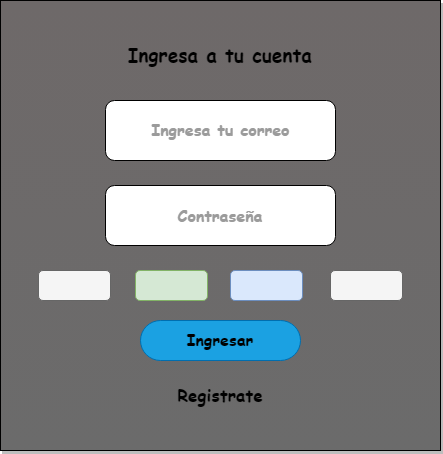
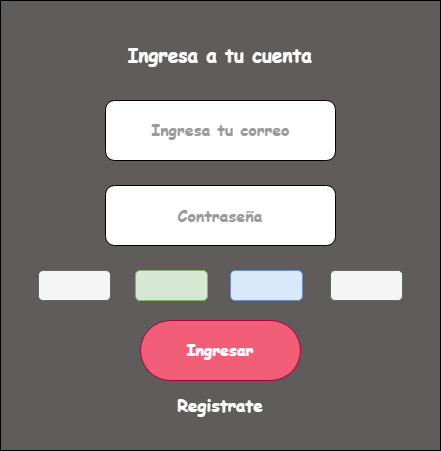
v2

diff --git a/wireframe/registro_DH_Venture_Capitals.html b/wireframe/registro_DH_Venture_Capitals.html
@@ -6,7 +6,7 @@
 <meta charset="utf-8"/>
 </head>
 <body>
-<div class="mxgraph" style="max-width:100%;border:1px solid transparent;" data-mxgraph="{&quot;highlight&quot;:&quot;#0000ff&quot;,&quot;nav&quot;:true,&quot;resize&quot;:true,&quot;xml&quot;:&quot;&lt;mxfile host=\&quot;app.diagrams.net\&quot; modified=\&quot;2024-01-03T18:39:56.479Z\&quot; agent=\&quot;Mozilla/5.0 (Windows NT 10.0; Win64; x64) AppleWebKit/537.36 (KHTML, like Gecko) Chrome/120.0.0.0 Safari/537.36\&quot; etag=\&quot;cjPAPymmBEQQY-jSJoUh\&quot; version=\&quot;22.1.16\&quot; type=\&quot;device\&quot;&gt;&lt;diagram name=\&quot;Página-1\&quot; id=\&quot;12uegHvMAC7eU31NP4QJ\&quot;&gt;&lt;mxGraphModel dx=\&quot;1334\&quot; dy=\&quot;447\&quot; grid=\&quot;1\&quot; gridSize=\&quot;10\&quot; guides=\&quot;1\&quot; tooltips=\&quot;1\&quot; connect=\&quot;1\&quot; arrows=\&quot;1\&quot; fold=\&quot;1\&quot; page=\&quot;1\&quot; pageScale=\&quot;1\&quot; pageWidth=\&quot;827\&quot; pageHeight=\&quot;1169\&quot; background=\&quot;#ffffff\&quot; math=\&quot;0\&quot; shadow=\&quot;0\&quot;&gt;&lt;root&gt;&lt;mxCell id=\&quot;0\&quot;/&gt;&lt;mxCell id=\&quot;1\&quot; parent=\&quot;0\&quot;/&gt;&lt;mxCell id=\&quot;cDF5cskOp4vhCd6t1dvx-1\&quot; value=\&quot;\&quot; style=\&quot;rounded=0;whiteSpace=wrap;html=1;fontSize=16;labelBackgroundColor=none;fillColor=#6b6b6b;strokeColor=default;fontColor=#EEEEEE;glass=0;shadow=1;gradientColor=#6E6969;gradientDirection=north;\&quot; parent=\&quot;1\&quot; vertex=\&quot;1\&quot;&gt;&lt;mxGeometry x=\&quot;30\&quot; width=\&quot;550\&quot; height=\&quot;540\&quot; as=\&quot;geometry\&quot;/&gt;&lt;/mxCell&gt;&lt;mxCell id=\&quot;cDF5cskOp4vhCd6t1dvx-13\&quot; style=\&quot;edgeStyle=none;curved=1;rounded=0;orthogonalLoop=1;jettySize=auto;html=1;exitX=0.5;exitY=0;exitDx=0;exitDy=0;fontSize=12;startSize=8;endSize=8;labelBackgroundColor=none;strokeColor=#0B4D6A;fontColor=default;\&quot; parent=\&quot;1\&quot; edge=\&quot;1\&quot;&gt;&lt;mxGeometry relative=\&quot;1\&quot; as=\&quot;geometry\&quot;&gt;&lt;mxPoint x=\&quot;201\&quot; y=\&quot;141\&quot; as=\&quot;sourcePoint\&quot;/&gt;&lt;mxPoint x=\&quot;201\&quot; y=\&quot;141\&quot; as=\&quot;targetPoint\&quot;/&gt;&lt;/mxGeometry&gt;&lt;/mxCell&gt;&lt;mxCell id=\&quot;cDF5cskOp4vhCd6t1dvx-15\&quot; value=\&quot;\&quot; style=\&quot;rounded=1;whiteSpace=wrap;html=1;fontSize=16;fontFamily=Georgia;\&quot; parent=\&quot;1\&quot; vertex=\&quot;1\&quot;&gt;&lt;mxGeometry x=\&quot;206\&quot; y=\&quot;90\&quot; width=\&quot;305\&quot; height=\&quot;40\&quot; as=\&quot;geometry\&quot;/&gt;&lt;/mxCell&gt;&lt;mxCell id=\&quot;cDF5cskOp4vhCd6t1dvx-27\&quot; value=\&quot;&amp;lt;font&amp;gt;Ingresa tu correo:&amp;lt;/font&amp;gt;\&quot; style=\&quot;text;strokeColor=none;fillColor=none;html=1;align=right;verticalAlign=middle;whiteSpace=wrap;rounded=0;fontSize=16;fontColor=#001933;fontStyle=1;fontFamily=Comic Sans MS;\&quot; parent=\&quot;1\&quot; vertex=\&quot;1\&quot;&gt;&lt;mxGeometry x=\&quot;-10\&quot; y=\&quot;195\&quot; width=\&quot;210\&quot; height=\&quot;30\&quot; as=\&quot;geometry\&quot;/&gt;&lt;/mxCell&gt;&lt;mxCell id=\&quot;cDF5cskOp4vhCd6t1dvx-28\&quot; value=\&quot;&amp;lt;font color=&amp;quot;#001933&amp;quot;&amp;gt;Contraseña:&amp;lt;/font&amp;gt;\&quot; style=\&quot;text;strokeColor=none;fillColor=none;html=1;align=right;verticalAlign=middle;whiteSpace=wrap;rounded=0;fontSize=16;fontColor=#EEEEEE;fontFamily=Comic Sans MS;fontStyle=1\&quot; parent=\&quot;1\&quot; vertex=\&quot;1\&quot;&gt;&lt;mxGeometry x=\&quot;40\&quot; y=\&quot;245\&quot; width=\&quot;160\&quot; height=\&quot;30\&quot; as=\&quot;geometry\&quot;/&gt;&lt;/mxCell&gt;&lt;mxCell id=\&quot;IHxpTEx0LPW30u4pidut-1\&quot; value=\&quot;&amp;lt;span style=&amp;quot;font-size: 20px;&amp;quot;&amp;gt;Ingresa tus datos&amp;lt;/span&amp;gt;\&quot; style=\&quot;text;html=1;align=center;verticalAlign=middle;whiteSpace=wrap;rounded=0;fontSize=16;fontFamily=Comic Sans MS;fontStyle=1\&quot; parent=\&quot;1\&quot; vertex=\&quot;1\&quot;&gt;&lt;mxGeometry x=\&quot;155\&quot; y=\&quot;20\&quot; width=\&quot;300\&quot; height=\&quot;50\&quot; as=\&quot;geometry\&quot;/&gt;&lt;/mxCell&gt;&lt;mxCell id=\&quot;4_CJv07GIkEiRWHk7G3K-2\&quot; value=\&quot;\&quot; style=\&quot;rounded=1;whiteSpace=wrap;html=1;fontSize=16;fontFamily=Georgia;\&quot; vertex=\&quot;1\&quot; parent=\&quot;1\&quot;&gt;&lt;mxGeometry x=\&quot;206\&quot; y=\&quot;140\&quot; width=\&quot;305\&quot; height=\&quot;40\&quot; as=\&quot;geometry\&quot;/&gt;&lt;/mxCell&gt;&lt;mxCell id=\&quot;4_CJv07GIkEiRWHk7G3K-3\&quot; value=\&quot;\&quot; style=\&quot;rounded=1;whiteSpace=wrap;html=1;fontSize=16;fontFamily=Georgia;\&quot; vertex=\&quot;1\&quot; parent=\&quot;1\&quot;&gt;&lt;mxGeometry x=\&quot;206\&quot; y=\&quot;190\&quot; width=\&quot;305\&quot; height=\&quot;40\&quot; as=\&quot;geometry\&quot;/&gt;&lt;/mxCell&gt;&lt;mxCell id=\&quot;4_CJv07GIkEiRWHk7G3K-4\&quot; value=\&quot;\&quot; style=\&quot;rounded=1;whiteSpace=wrap;html=1;fontSize=16;fontFamily=Georgia;\&quot; vertex=\&quot;1\&quot; parent=\&quot;1\&quot;&gt;&lt;mxGeometry x=\&quot;206\&quot; y=\&quot;240\&quot; width=\&quot;305\&quot; height=\&quot;40\&quot; as=\&quot;geometry\&quot;/&gt;&lt;/mxCell&gt;&lt;mxCell id=\&quot;4_CJv07GIkEiRWHk7G3K-5\&quot; value=\&quot;\&quot; style=\&quot;rounded=1;whiteSpace=wrap;html=1;fontSize=16;fontFamily=Georgia;\&quot; vertex=\&quot;1\&quot; parent=\&quot;1\&quot;&gt;&lt;mxGeometry x=\&quot;206\&quot; y=\&quot;290\&quot; width=\&quot;305\&quot; height=\&quot;40\&quot; as=\&quot;geometry\&quot;/&gt;&lt;/mxCell&gt;&lt;mxCell id=\&quot;4_CJv07GIkEiRWHk7G3K-7\&quot; value=\&quot;Nombre:\&quot; style=\&quot;text;strokeColor=none;fillColor=none;html=1;align=right;verticalAlign=middle;whiteSpace=wrap;rounded=0;fontSize=16;fontStyle=1;fontFamily=Comic Sans MS;\&quot; vertex=\&quot;1\&quot; parent=\&quot;1\&quot;&gt;&lt;mxGeometry x=\&quot;30\&quot; y=\&quot;95\&quot; width=\&quot;170\&quot; height=\&quot;30\&quot; as=\&quot;geometry\&quot;/&gt;&lt;/mxCell&gt;&lt;mxCell id=\&quot;4_CJv07GIkEiRWHk7G3K-8\&quot; value=\&quot;Apellido:\&quot; style=\&quot;text;strokeColor=none;fillColor=none;html=1;align=right;verticalAlign=middle;whiteSpace=wrap;rounded=0;fontSize=16;fontFamily=Comic Sans MS;fontStyle=1\&quot; vertex=\&quot;1\&quot; parent=\&quot;1\&quot;&gt;&lt;mxGeometry x=\&quot;40\&quot; y=\&quot;145\&quot; width=\&quot;160\&quot; height=\&quot;30\&quot; as=\&quot;geometry\&quot;/&gt;&lt;/mxCell&gt;&lt;mxCell id=\&quot;4_CJv07GIkEiRWHk7G3K-9\&quot; value=\&quot;&amp;lt;div style=&amp;quot;&amp;quot;&amp;gt;&amp;lt;span style=&amp;quot;background-color: initial;&amp;quot;&amp;gt;Telefono:&amp;lt;/span&amp;gt;&amp;lt;/div&amp;gt;\&quot; style=\&quot;text;strokeColor=none;fillColor=none;html=1;align=right;verticalAlign=middle;whiteSpace=wrap;rounded=0;fontSize=16;fontFamily=Comic Sans MS;fontStyle=1\&quot; vertex=\&quot;1\&quot; parent=\&quot;1\&quot;&gt;&lt;mxGeometry x=\&quot;75\&quot; y=\&quot;295\&quot; width=\&quot;125\&quot; height=\&quot;30\&quot; as=\&quot;geometry\&quot;/&gt;&lt;/mxCell&gt;&lt;mxCell id=\&quot;4_CJv07GIkEiRWHk7G3K-10\&quot; value=\&quot;\&quot; style=\&quot;rounded=1;whiteSpace=wrap;html=1;fontSize=16;fontFamily=Georgia;\&quot; vertex=\&quot;1\&quot; parent=\&quot;1\&quot;&gt;&lt;mxGeometry x=\&quot;206\&quot; y=\&quot;340\&quot; width=\&quot;305\&quot; height=\&quot;40\&quot; as=\&quot;geometry\&quot;/&gt;&lt;/mxCell&gt;&lt;mxCell id=\&quot;4_CJv07GIkEiRWHk7G3K-11\&quot; value=\&quot;&amp;lt;b&amp;gt;&amp;lt;font face=&amp;quot;Comic Sans MS&amp;quot;&amp;gt;Direccion:&amp;lt;/font&amp;gt;&amp;lt;/b&amp;gt;\&quot; style=\&quot;text;strokeColor=none;fillColor=none;html=1;align=right;verticalAlign=middle;whiteSpace=wrap;rounded=0;fontSize=16;\&quot; vertex=\&quot;1\&quot; parent=\&quot;1\&quot;&gt;&lt;mxGeometry x=\&quot;75\&quot; y=\&quot;345\&quot; width=\&quot;125\&quot; height=\&quot;30\&quot; as=\&quot;geometry\&quot;/&gt;&lt;/mxCell&gt;&lt;mxCell id=\&quot;4_CJv07GIkEiRWHk7G3K-14\&quot; value=\&quot;\&quot; style=\&quot;rounded=1;whiteSpace=wrap;html=1;fontSize=16;arcSize=50;fillColor=#1ba1e2;strokeColor=#006EAF;fontColor=#ffffff;\&quot; vertex=\&quot;1\&quot; parent=\&quot;1\&quot;&gt;&lt;mxGeometry x=\&quot;220\&quot; y=\&quot;430\&quot; width=\&quot;170\&quot; height=\&quot;60\&quot; as=\&quot;geometry\&quot;/&gt;&lt;/mxCell&gt;&lt;mxCell id=\&quot;Q6RJt2Fz_UeU4lbqEY6u-2\&quot; value=\&quot;&amp;lt;b&amp;gt;&amp;lt;font style=&amp;quot;font-size: 17px;&amp;quot;&amp;gt;Registrate&amp;lt;/font&amp;gt;&amp;lt;/b&amp;gt;\&quot; style=\&quot;text;strokeColor=none;fillColor=none;html=1;align=center;verticalAlign=middle;whiteSpace=wrap;rounded=0;fontSize=16;\&quot; parent=\&quot;1\&quot; vertex=\&quot;1\&quot;&gt;&lt;mxGeometry x=\&quot;165\&quot; y=\&quot;445\&quot; width=\&quot;290\&quot; height=\&quot;30\&quot; as=\&quot;geometry\&quot;/&gt;&lt;/mxCell&gt;&lt;/root&gt;&lt;/mxGraphModel&gt;&lt;/diagram&gt;&lt;/mxfile&gt;&quot;,&quot;toolbar&quot;:&quot;pages zoom layers lightbox&quot;,&quot;page&quot;:0}"></div>
+<div class="mxgraph" style="max-width:100%;border:1px solid transparent;" data-mxgraph="{&quot;highlight&quot;:&quot;#0000ff&quot;,&quot;nav&quot;:true,&quot;resize&quot;:true,&quot;xml&quot;:&quot;&lt;mxfile host=\&quot;app.diagrams.net\&quot; modified=\&quot;2024-01-03T22:00:13.741Z\&quot; agent=\&quot;Mozilla/5.0 (Windows NT 10.0; Win64; x64) AppleWebKit/537.36 (KHTML, like Gecko) Chrome/120.0.0.0 Safari/537.36\&quot; etag=\&quot;iFMQBsay1MMrfmf0Ffea\&quot; version=\&quot;22.1.16\&quot; type=\&quot;device\&quot;&gt;&lt;diagram name=\&quot;Página-1\&quot; id=\&quot;12uegHvMAC7eU31NP4QJ\&quot;&gt;&lt;mxGraphModel dx=\&quot;1546\&quot; dy=\&quot;447\&quot; grid=\&quot;1\&quot; gridSize=\&quot;10\&quot; guides=\&quot;1\&quot; tooltips=\&quot;1\&quot; connect=\&quot;1\&quot; arrows=\&quot;1\&quot; fold=\&quot;1\&quot; page=\&quot;1\&quot; pageScale=\&quot;1\&quot; pageWidth=\&quot;827\&quot; pageHeight=\&quot;1169\&quot; background=\&quot;#ffffff\&quot; math=\&quot;0\&quot; shadow=\&quot;0\&quot;&gt;&lt;root&gt;&lt;mxCell id=\&quot;0\&quot;/&gt;&lt;mxCell id=\&quot;1\&quot; parent=\&quot;0\&quot;/&gt;&lt;mxCell id=\&quot;cDF5cskOp4vhCd6t1dvx-1\&quot; value=\&quot;\&quot; style=\&quot;rounded=0;whiteSpace=wrap;html=1;fontSize=16;labelBackgroundColor=none;fillColor=#615C5C;strokeColor=default;fontColor=#EEEEEE;glass=0;shadow=0;gradientColor=none;gradientDirection=north;\&quot; parent=\&quot;1\&quot; vertex=\&quot;1\&quot;&gt;&lt;mxGeometry x=\&quot;30\&quot; width=\&quot;550\&quot; height=\&quot;540\&quot; as=\&quot;geometry\&quot;/&gt;&lt;/mxCell&gt;&lt;mxCell id=\&quot;cDF5cskOp4vhCd6t1dvx-13\&quot; value=\&quot;|\&quot; style=\&quot;edgeStyle=none;curved=1;rounded=0;orthogonalLoop=1;jettySize=auto;html=1;exitX=0.5;exitY=0;exitDx=0;exitDy=0;fontSize=12;startSize=8;endSize=8;labelBackgroundColor=none;strokeColor=#0B4D6A;fontColor=default;\&quot; parent=\&quot;1\&quot; edge=\&quot;1\&quot;&gt;&lt;mxGeometry relative=\&quot;1\&quot; as=\&quot;geometry\&quot;&gt;&lt;mxPoint x=\&quot;201\&quot; y=\&quot;141\&quot; as=\&quot;sourcePoint\&quot;/&gt;&lt;mxPoint x=\&quot;201\&quot; y=\&quot;141\&quot; as=\&quot;targetPoint\&quot;/&gt;&lt;/mxGeometry&gt;&lt;/mxCell&gt;&lt;mxCell id=\&quot;cDF5cskOp4vhCd6t1dvx-15\&quot; value=\&quot;\&quot; style=\&quot;rounded=1;whiteSpace=wrap;html=1;fontSize=16;fontFamily=Georgia;\&quot; parent=\&quot;1\&quot; vertex=\&quot;1\&quot;&gt;&lt;mxGeometry x=\&quot;206\&quot; y=\&quot;90\&quot; width=\&quot;305\&quot; height=\&quot;40\&quot; as=\&quot;geometry\&quot;/&gt;&lt;/mxCell&gt;&lt;mxCell id=\&quot;cDF5cskOp4vhCd6t1dvx-27\&quot; value=\&quot;&amp;lt;font color=&amp;quot;#ffffff&amp;quot; style=&amp;quot;background-color: rgb(97, 92, 92);&amp;quot;&amp;gt;Ingresa tu correo:&amp;lt;/font&amp;gt;\&quot; style=\&quot;text;strokeColor=none;fillColor=none;html=1;align=right;verticalAlign=middle;whiteSpace=wrap;rounded=0;fontSize=16;fontColor=#001933;fontStyle=1;fontFamily=Comic Sans MS;\&quot; parent=\&quot;1\&quot; vertex=\&quot;1\&quot;&gt;&lt;mxGeometry x=\&quot;-10\&quot; y=\&quot;195\&quot; width=\&quot;210\&quot; height=\&quot;30\&quot; as=\&quot;geometry\&quot;/&gt;&lt;/mxCell&gt;&lt;mxCell id=\&quot;cDF5cskOp4vhCd6t1dvx-28\&quot; value=\&quot;&amp;lt;font color=&amp;quot;#ffffff&amp;quot;&amp;gt;Contraseña:&amp;lt;/font&amp;gt;\&quot; style=\&quot;text;strokeColor=none;fillColor=none;html=1;align=right;verticalAlign=middle;whiteSpace=wrap;rounded=0;fontSize=16;fontColor=#EEEEEE;fontFamily=Comic Sans MS;fontStyle=1\&quot; parent=\&quot;1\&quot; vertex=\&quot;1\&quot;&gt;&lt;mxGeometry x=\&quot;40\&quot; y=\&quot;245\&quot; width=\&quot;160\&quot; height=\&quot;30\&quot; as=\&quot;geometry\&quot;/&gt;&lt;/mxCell&gt;&lt;mxCell id=\&quot;IHxpTEx0LPW30u4pidut-1\&quot; value=\&quot;&amp;lt;span style=&amp;quot;font-size: 20px;&amp;quot;&amp;gt;&amp;lt;font color=&amp;quot;#ffffff&amp;quot;&amp;gt;Ingresa tus datos&amp;lt;/font&amp;gt;&amp;lt;/span&amp;gt;\&quot; style=\&quot;text;html=1;align=center;verticalAlign=middle;whiteSpace=wrap;rounded=0;fontSize=16;fontFamily=Comic Sans MS;fontStyle=1\&quot; parent=\&quot;1\&quot; vertex=\&quot;1\&quot;&gt;&lt;mxGeometry x=\&quot;155\&quot; y=\&quot;20\&quot; width=\&quot;300\&quot; height=\&quot;50\&quot; as=\&quot;geometry\&quot;/&gt;&lt;/mxCell&gt;&lt;mxCell id=\&quot;4_CJv07GIkEiRWHk7G3K-2\&quot; value=\&quot;\&quot; style=\&quot;rounded=1;whiteSpace=wrap;html=1;fontSize=16;fontFamily=Georgia;\&quot; parent=\&quot;1\&quot; vertex=\&quot;1\&quot;&gt;&lt;mxGeometry x=\&quot;206\&quot; y=\&quot;140\&quot; width=\&quot;305\&quot; height=\&quot;40\&quot; as=\&quot;geometry\&quot;/&gt;&lt;/mxCell&gt;&lt;mxCell id=\&quot;4_CJv07GIkEiRWHk7G3K-3\&quot; value=\&quot;\&quot; style=\&quot;rounded=1;whiteSpace=wrap;html=1;fontSize=16;fontFamily=Georgia;\&quot; parent=\&quot;1\&quot; vertex=\&quot;1\&quot;&gt;&lt;mxGeometry x=\&quot;206\&quot; y=\&quot;190\&quot; width=\&quot;305\&quot; height=\&quot;40\&quot; as=\&quot;geometry\&quot;/&gt;&lt;/mxCell&gt;&lt;mxCell id=\&quot;4_CJv07GIkEiRWHk7G3K-4\&quot; value=\&quot;\&quot; style=\&quot;rounded=1;whiteSpace=wrap;html=1;fontSize=16;fontFamily=Georgia;\&quot; parent=\&quot;1\&quot; vertex=\&quot;1\&quot;&gt;&lt;mxGeometry x=\&quot;206\&quot; y=\&quot;240\&quot; width=\&quot;305\&quot; height=\&quot;40\&quot; as=\&quot;geometry\&quot;/&gt;&lt;/mxCell&gt;&lt;mxCell id=\&quot;4_CJv07GIkEiRWHk7G3K-5\&quot; value=\&quot;\&quot; style=\&quot;rounded=1;whiteSpace=wrap;html=1;fontSize=16;fontFamily=Georgia;\&quot; parent=\&quot;1\&quot; vertex=\&quot;1\&quot;&gt;&lt;mxGeometry x=\&quot;206\&quot; y=\&quot;290\&quot; width=\&quot;305\&quot; height=\&quot;40\&quot; as=\&quot;geometry\&quot;/&gt;&lt;/mxCell&gt;&lt;mxCell id=\&quot;4_CJv07GIkEiRWHk7G3K-7\&quot; value=\&quot;&amp;lt;font color=&amp;quot;#ffffff&amp;quot;&amp;gt;Nombre:&amp;lt;/font&amp;gt;\&quot; style=\&quot;text;strokeColor=none;fillColor=none;html=1;align=right;verticalAlign=middle;whiteSpace=wrap;rounded=0;fontSize=16;fontStyle=1;fontFamily=Comic Sans MS;\&quot; parent=\&quot;1\&quot; vertex=\&quot;1\&quot;&gt;&lt;mxGeometry x=\&quot;30\&quot; y=\&quot;95\&quot; width=\&quot;170\&quot; height=\&quot;30\&quot; as=\&quot;geometry\&quot;/&gt;&lt;/mxCell&gt;&lt;mxCell id=\&quot;4_CJv07GIkEiRWHk7G3K-8\&quot; value=\&quot;&amp;lt;font color=&amp;quot;#ffffff&amp;quot;&amp;gt;Apellido:&amp;lt;/font&amp;gt;\&quot; style=\&quot;text;strokeColor=none;fillColor=none;html=1;align=right;verticalAlign=middle;whiteSpace=wrap;rounded=0;fontSize=16;fontFamily=Comic Sans MS;fontStyle=1\&quot; parent=\&quot;1\&quot; vertex=\&quot;1\&quot;&gt;&lt;mxGeometry x=\&quot;40\&quot; y=\&quot;145\&quot; width=\&quot;160\&quot; height=\&quot;30\&quot; as=\&quot;geometry\&quot;/&gt;&lt;/mxCell&gt;&lt;mxCell id=\&quot;4_CJv07GIkEiRWHk7G3K-9\&quot; value=\&quot;&amp;lt;div style=&amp;quot;&amp;quot;&amp;gt;&amp;lt;span style=&amp;quot;background-color: initial;&amp;quot;&amp;gt;&amp;lt;font color=&amp;quot;#ffffff&amp;quot;&amp;gt;Telefono:&amp;lt;/font&amp;gt;&amp;lt;/span&amp;gt;&amp;lt;/div&amp;gt;\&quot; style=\&quot;text;strokeColor=none;fillColor=none;html=1;align=right;verticalAlign=middle;whiteSpace=wrap;rounded=0;fontSize=16;fontFamily=Comic Sans MS;fontStyle=1\&quot; parent=\&quot;1\&quot; vertex=\&quot;1\&quot;&gt;&lt;mxGeometry x=\&quot;75\&quot; y=\&quot;295\&quot; width=\&quot;125\&quot; height=\&quot;30\&quot; as=\&quot;geometry\&quot;/&gt;&lt;/mxCell&gt;&lt;mxCell id=\&quot;4_CJv07GIkEiRWHk7G3K-10\&quot; value=\&quot;\&quot; style=\&quot;rounded=1;whiteSpace=wrap;html=1;fontSize=16;fontFamily=Georgia;\&quot; parent=\&quot;1\&quot; vertex=\&quot;1\&quot;&gt;&lt;mxGeometry x=\&quot;206\&quot; y=\&quot;340\&quot; width=\&quot;305\&quot; height=\&quot;40\&quot; as=\&quot;geometry\&quot;/&gt;&lt;/mxCell&gt;&lt;mxCell id=\&quot;4_CJv07GIkEiRWHk7G3K-11\&quot; value=\&quot;&amp;lt;b&amp;gt;&amp;lt;font color=&amp;quot;#ffffff&amp;quot; face=&amp;quot;Comic Sans MS&amp;quot;&amp;gt;Direccion:&amp;lt;/font&amp;gt;&amp;lt;/b&amp;gt;\&quot; style=\&quot;text;strokeColor=none;fillColor=none;html=1;align=right;verticalAlign=middle;whiteSpace=wrap;rounded=0;fontSize=16;\&quot; parent=\&quot;1\&quot; vertex=\&quot;1\&quot;&gt;&lt;mxGeometry x=\&quot;75\&quot; y=\&quot;345\&quot; width=\&quot;125\&quot; height=\&quot;30\&quot; as=\&quot;geometry\&quot;/&gt;&lt;/mxCell&gt;&lt;mxCell id=\&quot;4_CJv07GIkEiRWHk7G3K-14\&quot; value=\&quot;\&quot; style=\&quot;rounded=1;whiteSpace=wrap;html=1;fontSize=16;arcSize=50;fillColor=#F25E77;strokeColor=#A50040;fontColor=#ffffff;\&quot; parent=\&quot;1\&quot; vertex=\&quot;1\&quot;&gt;&lt;mxGeometry x=\&quot;220\&quot; y=\&quot;430\&quot; width=\&quot;170\&quot; height=\&quot;60\&quot; as=\&quot;geometry\&quot;/&gt;&lt;/mxCell&gt;&lt;mxCell id=\&quot;Q6RJt2Fz_UeU4lbqEY6u-2\&quot; value=\&quot;&amp;lt;b&amp;gt;&amp;lt;font color=&amp;quot;#ffffff&amp;quot; face=&amp;quot;Comic Sans MS&amp;quot; style=&amp;quot;font-size: 17px;&amp;quot;&amp;gt;Registrate&amp;lt;/font&amp;gt;&amp;lt;/b&amp;gt;\&quot; style=\&quot;text;strokeColor=none;fillColor=none;html=1;align=center;verticalAlign=middle;whiteSpace=wrap;rounded=0;fontSize=16;\&quot; parent=\&quot;1\&quot; vertex=\&quot;1\&quot;&gt;&lt;mxGeometry x=\&quot;165\&quot; y=\&quot;445\&quot; width=\&quot;290\&quot; height=\&quot;30\&quot; as=\&quot;geometry\&quot;/&gt;&lt;/mxCell&gt;&lt;/root&gt;&lt;/mxGraphModel&gt;&lt;/diagram&gt;&lt;/mxfile&gt;&quot;,&quot;toolbar&quot;:&quot;pages zoom layers lightbox&quot;,&quot;page&quot;:0}"></div>
 <script type="text/javascript" src="https://app.diagrams.net/js/viewer-static.min.js"></script>
 </body>
 </html>

diff --git a/wireframe/login_DH_Venture_Capitals.html b/wireframe/login_DH_Venture_Capitals.html
@@ -6,7 +6,7 @@
 <meta charset="utf-8"/>
 </head>
 <body>
-<div class="mxgraph" style="max-width:100%;border:1px solid transparent;" data-mxgraph="{&quot;highlight&quot;:&quot;#0000ff&quot;,&quot;nav&quot;:true,&quot;resize&quot;:true,&quot;xml&quot;:&quot;&lt;mxfile host=\&quot;app.diagrams.net\&quot; modified=\&quot;2024-01-03T18:40:04.896Z\&quot; agent=\&quot;Mozilla/5.0 (Windows NT 10.0; Win64; x64) AppleWebKit/537.36 (KHTML, like Gecko) Chrome/120.0.0.0 Safari/537.36\&quot; etag=\&quot;9M8ZDHn8jTCqI-x271Lr\&quot; version=\&quot;22.1.16\&quot; type=\&quot;device\&quot;&gt;&lt;diagram name=\&quot;Página-1\&quot; id=\&quot;12uegHvMAC7eU31NP4QJ\&quot;&gt;&lt;mxGraphModel dx=\&quot;507\&quot; dy=\&quot;447\&quot; grid=\&quot;1\&quot; gridSize=\&quot;10\&quot; guides=\&quot;1\&quot; tooltips=\&quot;1\&quot; connect=\&quot;1\&quot; arrows=\&quot;1\&quot; fold=\&quot;1\&quot; page=\&quot;1\&quot; pageScale=\&quot;1\&quot; pageWidth=\&quot;827\&quot; pageHeight=\&quot;1169\&quot; background=\&quot;#ffffff\&quot; math=\&quot;0\&quot; shadow=\&quot;0\&quot;&gt;&lt;root&gt;&lt;mxCell id=\&quot;0\&quot;/&gt;&lt;mxCell id=\&quot;1\&quot; parent=\&quot;0\&quot;/&gt;&lt;mxCell id=\&quot;cDF5cskOp4vhCd6t1dvx-1\&quot; value=\&quot;\&quot; style=\&quot;rounded=0;whiteSpace=wrap;html=1;fontSize=16;labelBackgroundColor=none;fillColor=#6b6b6b;strokeColor=default;fontColor=#EEEEEE;glass=0;shadow=1;gradientColor=#6E6969;gradientDirection=north;\&quot; parent=\&quot;1\&quot; vertex=\&quot;1\&quot;&gt;&lt;mxGeometry width=\&quot;440\&quot; height=\&quot;450\&quot; as=\&quot;geometry\&quot;/&gt;&lt;/mxCell&gt;&lt;mxCell id=\&quot;cDF5cskOp4vhCd6t1dvx-8\&quot; value=\&quot;\&quot; style=\&quot;rounded=1;whiteSpace=wrap;html=1;fontSize=16;labelBackgroundColor=none;fillColor=#f5f5f5;fontColor=#333333;strokeColor=#666666;\&quot; parent=\&quot;1\&quot; vertex=\&quot;1\&quot;&gt;&lt;mxGeometry x=\&quot;38\&quot; y=\&quot;270\&quot; width=\&quot;72\&quot; height=\&quot;30\&quot; as=\&quot;geometry\&quot;/&gt;&lt;/mxCell&gt;&lt;mxCell id=\&quot;cDF5cskOp4vhCd6t1dvx-10\&quot; value=\&quot;\&quot; style=\&quot;rounded=1;whiteSpace=wrap;html=1;fontSize=16;labelBackgroundColor=none;fillColor=#d5e8d4;strokeColor=#82b366;\&quot; parent=\&quot;1\&quot; vertex=\&quot;1\&quot;&gt;&lt;mxGeometry x=\&quot;135\&quot; y=\&quot;270\&quot; width=\&quot;72\&quot; height=\&quot;30\&quot; as=\&quot;geometry\&quot;/&gt;&lt;/mxCell&gt;&lt;mxCell id=\&quot;cDF5cskOp4vhCd6t1dvx-11\&quot; value=\&quot;\&quot; style=\&quot;rounded=1;whiteSpace=wrap;html=1;fontSize=16;labelBackgroundColor=none;fillColor=#dae8fc;strokeColor=#6c8ebf;\&quot; parent=\&quot;1\&quot; vertex=\&quot;1\&quot;&gt;&lt;mxGeometry x=\&quot;230\&quot; y=\&quot;270\&quot; width=\&quot;72\&quot; height=\&quot;30\&quot; as=\&quot;geometry\&quot;/&gt;&lt;/mxCell&gt;&lt;mxCell id=\&quot;cDF5cskOp4vhCd6t1dvx-12\&quot; value=\&quot;\&quot; style=\&quot;rounded=1;whiteSpace=wrap;html=1;fontSize=16;labelBackgroundColor=none;fillColor=#f5f5f5;fontColor=#333333;strokeColor=#666666;\&quot; parent=\&quot;1\&quot; vertex=\&quot;1\&quot;&gt;&lt;mxGeometry x=\&quot;330\&quot; y=\&quot;270\&quot; width=\&quot;72\&quot; height=\&quot;30\&quot; as=\&quot;geometry\&quot;/&gt;&lt;/mxCell&gt;&lt;mxCell id=\&quot;cDF5cskOp4vhCd6t1dvx-13\&quot; style=\&quot;edgeStyle=none;curved=1;rounded=0;orthogonalLoop=1;jettySize=auto;html=1;exitX=0.5;exitY=0;exitDx=0;exitDy=0;fontSize=12;startSize=8;endSize=8;labelBackgroundColor=none;strokeColor=#0B4D6A;fontColor=default;\&quot; parent=\&quot;1\&quot; edge=\&quot;1\&quot;&gt;&lt;mxGeometry relative=\&quot;1\&quot; as=\&quot;geometry\&quot;&gt;&lt;mxPoint x=\&quot;201\&quot; y=\&quot;141\&quot; as=\&quot;sourcePoint\&quot;/&gt;&lt;mxPoint x=\&quot;201\&quot; y=\&quot;141\&quot; as=\&quot;targetPoint\&quot;/&gt;&lt;/mxGeometry&gt;&lt;/mxCell&gt;&lt;mxCell id=\&quot;cDF5cskOp4vhCd6t1dvx-15\&quot; value=\&quot;\&quot; style=\&quot;rounded=1;whiteSpace=wrap;html=1;fontSize=16;fontFamily=Georgia;\&quot; parent=\&quot;1\&quot; vertex=\&quot;1\&quot;&gt;&lt;mxGeometry x=\&quot;105\&quot; y=\&quot;100\&quot; width=\&quot;230\&quot; height=\&quot;60\&quot; as=\&quot;geometry\&quot;/&gt;&lt;/mxCell&gt;&lt;mxCell id=\&quot;cDF5cskOp4vhCd6t1dvx-16\&quot; value=\&quot;\&quot; style=\&quot;rounded=1;whiteSpace=wrap;html=1;fontSize=16;\&quot; parent=\&quot;1\&quot; vertex=\&quot;1\&quot;&gt;&lt;mxGeometry x=\&quot;105\&quot; y=\&quot;185\&quot; width=\&quot;230\&quot; height=\&quot;60\&quot; as=\&quot;geometry\&quot;/&gt;&lt;/mxCell&gt;&lt;mxCell id=\&quot;cDF5cskOp4vhCd6t1dvx-27\&quot; value=\&quot;&amp;lt;font face=&amp;quot;Comic Sans MS&amp;quot;&amp;gt;Ingresa tu correo&amp;lt;/font&amp;gt;\&quot; style=\&quot;text;strokeColor=none;fillColor=none;html=1;align=center;verticalAlign=middle;rounded=0;fontSize=16;fontColor=#9b9b9b;fontStyle=1;labelBorderColor=none;labelBackgroundColor=default;\&quot; parent=\&quot;1\&quot; vertex=\&quot;1\&quot;&gt;&lt;mxGeometry x=\&quot;115\&quot; y=\&quot;115\&quot; width=\&quot;210\&quot; height=\&quot;30\&quot; as=\&quot;geometry\&quot;/&gt;&lt;/mxCell&gt;&lt;mxCell id=\&quot;cDF5cskOp4vhCd6t1dvx-28\&quot; value=\&quot;&amp;lt;font face=&amp;quot;Comic Sans MS&amp;quot;&amp;gt;Contraseña&amp;lt;/font&amp;gt;\&quot; style=\&quot;text;strokeColor=none;fillColor=none;html=1;align=center;verticalAlign=middle;whiteSpace=wrap;rounded=0;fontSize=16;fontColor=#9b9b9b;fontFamily=Verdana;fontStyle=1\&quot; parent=\&quot;1\&quot; vertex=\&quot;1\&quot;&gt;&lt;mxGeometry x=\&quot;140\&quot; y=\&quot;200\&quot; width=\&quot;160\&quot; height=\&quot;30\&quot; as=\&quot;geometry\&quot;/&gt;&lt;/mxCell&gt;&lt;mxCell id=\&quot;cDF5cskOp4vhCd6t1dvx-32\&quot; value=\&quot;&amp;lt;b style=&amp;quot;&amp;quot;&amp;gt;&amp;lt;font face=&amp;quot;Comic Sans MS&amp;quot;&amp;gt;Ingresar&amp;lt;/font&amp;gt;&amp;lt;/b&amp;gt;\&quot; style=\&quot;rounded=1;whiteSpace=wrap;html=1;fontSize=16;strokeColor=#006EAF;labelBackgroundColor=none;labelBorderColor=none;arcSize=50;fillColor=#1ba1e2;fontColor=default;\&quot; parent=\&quot;1\&quot; vertex=\&quot;1\&quot;&gt;&lt;mxGeometry x=\&quot;140\&quot; y=\&quot;320\&quot; width=\&quot;160\&quot; height=\&quot;40\&quot; as=\&quot;geometry\&quot;/&gt;&lt;/mxCell&gt;&lt;mxCell id=\&quot;IHxpTEx0LPW30u4pidut-1\&quot; value=\&quot;&amp;lt;b&amp;gt;&amp;lt;font face=&amp;quot;Comic Sans MS&amp;quot; style=&amp;quot;font-size: 19px;&amp;quot;&amp;gt;Ingresa a tu cuenta&amp;lt;/font&amp;gt;&amp;lt;/b&amp;gt;\&quot; style=\&quot;text;html=1;align=center;verticalAlign=middle;whiteSpace=wrap;rounded=0;fontSize=16;\&quot; parent=\&quot;1\&quot; vertex=\&quot;1\&quot;&gt;&lt;mxGeometry x=\&quot;70\&quot; y=\&quot;30\&quot; width=\&quot;300\&quot; height=\&quot;50\&quot; as=\&quot;geometry\&quot;/&gt;&lt;/mxCell&gt;&lt;mxCell id=\&quot;Q6RJt2Fz_UeU4lbqEY6u-2\&quot; value=\&quot;&amp;lt;b&amp;gt;&amp;lt;font face=&amp;quot;Comic Sans MS&amp;quot; style=&amp;quot;font-size: 17px;&amp;quot;&amp;gt;Registrate&amp;lt;/font&amp;gt;&amp;lt;/b&amp;gt;\&quot; style=\&quot;text;strokeColor=none;fillColor=none;html=1;align=center;verticalAlign=middle;whiteSpace=wrap;rounded=0;fontSize=16;\&quot; vertex=\&quot;1\&quot; parent=\&quot;1\&quot;&gt;&lt;mxGeometry x=\&quot;75\&quot; y=\&quot;380\&quot; width=\&quot;290\&quot; height=\&quot;30\&quot; as=\&quot;geometry\&quot;/&gt;&lt;/mxCell&gt;&lt;/root&gt;&lt;/mxGraphModel&gt;&lt;/diagram&gt;&lt;/mxfile&gt;&quot;,&quot;toolbar&quot;:&quot;pages zoom layers lightbox&quot;,&quot;page&quot;:0}"></div>
+<div class="mxgraph" style="max-width:100%;border:1px solid transparent;" data-mxgraph="{&quot;highlight&quot;:&quot;#0000ff&quot;,&quot;nav&quot;:true,&quot;resize&quot;:true,&quot;xml&quot;:&quot;&lt;mxfile host=\&quot;app.diagrams.net\&quot; modified=\&quot;2024-01-03T22:00:09.362Z\&quot; agent=\&quot;Mozilla/5.0 (Windows NT 10.0; Win64; x64) AppleWebKit/537.36 (KHTML, like Gecko) Chrome/120.0.0.0 Safari/537.36\&quot; etag=\&quot;-ZQjddXTCR1RO9RA6qLb\&quot; version=\&quot;22.1.16\&quot; type=\&quot;device\&quot;&gt;&lt;diagram name=\&quot;Página-1\&quot; id=\&quot;12uegHvMAC7eU31NP4QJ\&quot;&gt;&lt;mxGraphModel dx=\&quot;719\&quot; dy=\&quot;447\&quot; grid=\&quot;1\&quot; gridSize=\&quot;10\&quot; guides=\&quot;1\&quot; tooltips=\&quot;1\&quot; connect=\&quot;1\&quot; arrows=\&quot;1\&quot; fold=\&quot;1\&quot; page=\&quot;1\&quot; pageScale=\&quot;1\&quot; pageWidth=\&quot;827\&quot; pageHeight=\&quot;1169\&quot; background=\&quot;#ffffff\&quot; math=\&quot;0\&quot; shadow=\&quot;0\&quot;&gt;&lt;root&gt;&lt;mxCell id=\&quot;0\&quot;/&gt;&lt;mxCell id=\&quot;1\&quot; parent=\&quot;0\&quot;/&gt;&lt;mxCell id=\&quot;cDF5cskOp4vhCd6t1dvx-1\&quot; value=\&quot;\&quot; style=\&quot;rounded=0;whiteSpace=wrap;html=1;fontSize=16;labelBackgroundColor=none;fillColor=#615C5C;strokeColor=default;fontColor=#EEEEEE;glass=0;shadow=0;gradientColor=none;gradientDirection=north;\&quot; parent=\&quot;1\&quot; vertex=\&quot;1\&quot;&gt;&lt;mxGeometry width=\&quot;440\&quot; height=\&quot;450\&quot; as=\&quot;geometry\&quot;/&gt;&lt;/mxCell&gt;&lt;mxCell id=\&quot;cDF5cskOp4vhCd6t1dvx-8\&quot; value=\&quot;\&quot; style=\&quot;rounded=1;whiteSpace=wrap;html=1;fontSize=16;labelBackgroundColor=none;fillColor=#f5f5f5;fontColor=#333333;strokeColor=#666666;\&quot; parent=\&quot;1\&quot; vertex=\&quot;1\&quot;&gt;&lt;mxGeometry x=\&quot;38\&quot; y=\&quot;270\&quot; width=\&quot;72\&quot; height=\&quot;30\&quot; as=\&quot;geometry\&quot;/&gt;&lt;/mxCell&gt;&lt;mxCell id=\&quot;cDF5cskOp4vhCd6t1dvx-10\&quot; value=\&quot;\&quot; style=\&quot;rounded=1;whiteSpace=wrap;html=1;fontSize=16;labelBackgroundColor=none;fillColor=#d5e8d4;strokeColor=#82b366;\&quot; parent=\&quot;1\&quot; vertex=\&quot;1\&quot;&gt;&lt;mxGeometry x=\&quot;135\&quot; y=\&quot;270\&quot; width=\&quot;72\&quot; height=\&quot;30\&quot; as=\&quot;geometry\&quot;/&gt;&lt;/mxCell&gt;&lt;mxCell id=\&quot;cDF5cskOp4vhCd6t1dvx-11\&quot; value=\&quot;\&quot; style=\&quot;rounded=1;whiteSpace=wrap;html=1;fontSize=16;labelBackgroundColor=none;fillColor=#dae8fc;strokeColor=#6c8ebf;\&quot; parent=\&quot;1\&quot; vertex=\&quot;1\&quot;&gt;&lt;mxGeometry x=\&quot;230\&quot; y=\&quot;270\&quot; width=\&quot;72\&quot; height=\&quot;30\&quot; as=\&quot;geometry\&quot;/&gt;&lt;/mxCell&gt;&lt;mxCell id=\&quot;cDF5cskOp4vhCd6t1dvx-12\&quot; value=\&quot;\&quot; style=\&quot;rounded=1;whiteSpace=wrap;html=1;fontSize=16;labelBackgroundColor=none;fillColor=#f5f5f5;fontColor=#333333;strokeColor=#666666;\&quot; parent=\&quot;1\&quot; vertex=\&quot;1\&quot;&gt;&lt;mxGeometry x=\&quot;330\&quot; y=\&quot;270\&quot; width=\&quot;72\&quot; height=\&quot;30\&quot; as=\&quot;geometry\&quot;/&gt;&lt;/mxCell&gt;&lt;mxCell id=\&quot;cDF5cskOp4vhCd6t1dvx-13\&quot; style=\&quot;edgeStyle=none;curved=1;rounded=0;orthogonalLoop=1;jettySize=auto;html=1;exitX=0.5;exitY=0;exitDx=0;exitDy=0;fontSize=12;startSize=8;endSize=8;labelBackgroundColor=none;strokeColor=#0B4D6A;fontColor=default;\&quot; parent=\&quot;1\&quot; edge=\&quot;1\&quot;&gt;&lt;mxGeometry relative=\&quot;1\&quot; as=\&quot;geometry\&quot;&gt;&lt;mxPoint x=\&quot;201\&quot; y=\&quot;141\&quot; as=\&quot;sourcePoint\&quot;/&gt;&lt;mxPoint x=\&quot;201\&quot; y=\&quot;141\&quot; as=\&quot;targetPoint\&quot;/&gt;&lt;/mxGeometry&gt;&lt;/mxCell&gt;&lt;mxCell id=\&quot;cDF5cskOp4vhCd6t1dvx-15\&quot; value=\&quot;\&quot; style=\&quot;rounded=1;whiteSpace=wrap;html=1;fontSize=16;fontFamily=Georgia;\&quot; parent=\&quot;1\&quot; vertex=\&quot;1\&quot;&gt;&lt;mxGeometry x=\&quot;105\&quot; y=\&quot;100\&quot; width=\&quot;230\&quot; height=\&quot;60\&quot; as=\&quot;geometry\&quot;/&gt;&lt;/mxCell&gt;&lt;mxCell id=\&quot;cDF5cskOp4vhCd6t1dvx-16\&quot; value=\&quot;\&quot; style=\&quot;rounded=1;whiteSpace=wrap;html=1;fontSize=16;\&quot; parent=\&quot;1\&quot; vertex=\&quot;1\&quot;&gt;&lt;mxGeometry x=\&quot;105\&quot; y=\&quot;185\&quot; width=\&quot;230\&quot; height=\&quot;60\&quot; as=\&quot;geometry\&quot;/&gt;&lt;/mxCell&gt;&lt;mxCell id=\&quot;cDF5cskOp4vhCd6t1dvx-27\&quot; value=\&quot;&amp;lt;font face=&amp;quot;Comic Sans MS&amp;quot;&amp;gt;Ingresa tu correo&amp;lt;/font&amp;gt;\&quot; style=\&quot;text;strokeColor=none;fillColor=none;html=1;align=center;verticalAlign=middle;rounded=0;fontSize=16;fontColor=#9b9b9b;fontStyle=1;labelBorderColor=none;labelBackgroundColor=default;\&quot; parent=\&quot;1\&quot; vertex=\&quot;1\&quot;&gt;&lt;mxGeometry x=\&quot;115\&quot; y=\&quot;115\&quot; width=\&quot;210\&quot; height=\&quot;30\&quot; as=\&quot;geometry\&quot;/&gt;&lt;/mxCell&gt;&lt;mxCell id=\&quot;cDF5cskOp4vhCd6t1dvx-28\&quot; value=\&quot;&amp;lt;font face=&amp;quot;Comic Sans MS&amp;quot;&amp;gt;Contraseña&amp;lt;/font&amp;gt;\&quot; style=\&quot;text;strokeColor=none;fillColor=none;html=1;align=center;verticalAlign=middle;whiteSpace=wrap;rounded=0;fontSize=16;fontColor=#9b9b9b;fontFamily=Verdana;fontStyle=1\&quot; parent=\&quot;1\&quot; vertex=\&quot;1\&quot;&gt;&lt;mxGeometry x=\&quot;140\&quot; y=\&quot;200\&quot; width=\&quot;160\&quot; height=\&quot;30\&quot; as=\&quot;geometry\&quot;/&gt;&lt;/mxCell&gt;&lt;mxCell id=\&quot;cDF5cskOp4vhCd6t1dvx-32\&quot; value=\&quot;&amp;lt;b style=&amp;quot;&amp;quot;&amp;gt;&amp;lt;font color=&amp;quot;#ffffff&amp;quot; face=&amp;quot;Comic Sans MS&amp;quot;&amp;gt;Ingresar&amp;lt;/font&amp;gt;&amp;lt;/b&amp;gt;\&quot; style=\&quot;rounded=1;whiteSpace=wrap;html=1;fontSize=16;strokeColor=#A50040;labelBackgroundColor=none;labelBorderColor=none;arcSize=50;fillColor=#F25E77;fontColor=default;\&quot; parent=\&quot;1\&quot; vertex=\&quot;1\&quot;&gt;&lt;mxGeometry x=\&quot;140\&quot; y=\&quot;320\&quot; width=\&quot;160\&quot; height=\&quot;60\&quot; as=\&quot;geometry\&quot;/&gt;&lt;/mxCell&gt;&lt;mxCell id=\&quot;IHxpTEx0LPW30u4pidut-1\&quot; value=\&quot;&amp;lt;b&amp;gt;&amp;lt;font color=&amp;quot;#ffffff&amp;quot; face=&amp;quot;Comic Sans MS&amp;quot; style=&amp;quot;font-size: 19px;&amp;quot;&amp;gt;Ingresa a tu cuenta&amp;lt;/font&amp;gt;&amp;lt;/b&amp;gt;\&quot; style=\&quot;text;html=1;align=center;verticalAlign=middle;whiteSpace=wrap;rounded=0;fontSize=16;\&quot; parent=\&quot;1\&quot; vertex=\&quot;1\&quot;&gt;&lt;mxGeometry x=\&quot;70\&quot; y=\&quot;30\&quot; width=\&quot;300\&quot; height=\&quot;50\&quot; as=\&quot;geometry\&quot;/&gt;&lt;/mxCell&gt;&lt;mxCell id=\&quot;Q6RJt2Fz_UeU4lbqEY6u-2\&quot; value=\&quot;&amp;lt;b&amp;gt;&amp;lt;font color=&amp;quot;#ffffff&amp;quot; face=&amp;quot;Comic Sans MS&amp;quot; style=&amp;quot;font-size: 17px;&amp;quot;&amp;gt;Registrate&amp;lt;/font&amp;gt;&amp;lt;/b&amp;gt;\&quot; style=\&quot;text;strokeColor=none;fillColor=none;html=1;align=center;verticalAlign=middle;whiteSpace=wrap;rounded=0;fontSize=16;\&quot; parent=\&quot;1\&quot; vertex=\&quot;1\&quot;&gt;&lt;mxGeometry x=\&quot;75\&quot; y=\&quot;390\&quot; width=\&quot;290\&quot; height=\&quot;30\&quot; as=\&quot;geometry\&quot;/&gt;&lt;/mxCell&gt;&lt;/root&gt;&lt;/mxGraphModel&gt;&lt;/diagram&gt;&lt;/mxfile&gt;&quot;,&quot;toolbar&quot;:&quot;pages zoom layers lightbox&quot;,&quot;page&quot;:0}"></div>
 <script type="text/javascript" src="https://app.diagrams.net/js/viewer-static.min.js"></script>
 </body>
 </html>
